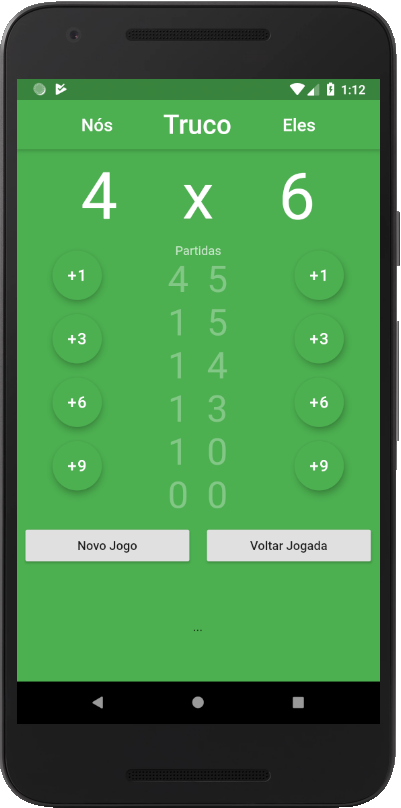
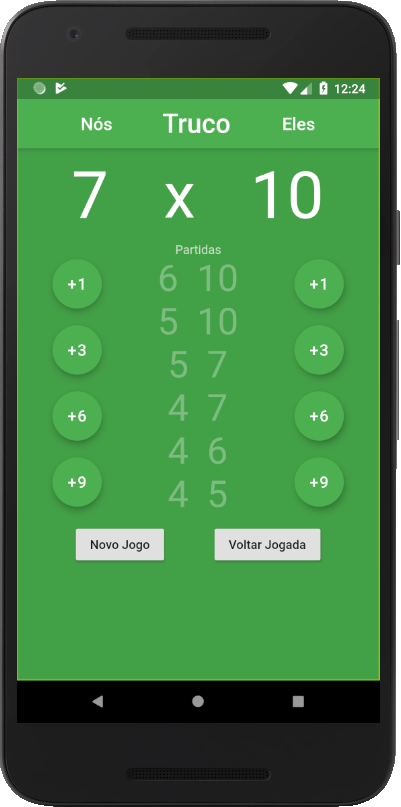
Refactor

diff --git a/lib/screens/game_screen.dart b/lib/screens/game_screen.dart
@@ -26,10 +26,13 @@ class _GameScrenState extends State<GameScreen>{
       child: Scaffold(
         appBar: AppBar(
           title: Row(
+            mainAxisAlignment: MainAxisAlignment.spaceEvenly,
             children: <Widget>[
-              Expanded(child: Center(child: Text('Nós'))),
-              Center(child: Text('Truco', style: TextStyle(fontSize: 30),)),
-              Expanded(child: Center(child: Text('Eles'))),
+
+              Text('Nós'),
+              Text('Truco', style: TextStyle(fontSize: 30)),
+              Text('Eles'),
+            
             ],
           ),
         ),
@@ -45,10 +48,9 @@ class _GameScrenState extends State<GameScreen>{
                   children: <Widget>[
                     
                     _ourPoint(),
-                    
-                    Center(child: Text('x', style: TextStyle(color: Colors.white, fontSize: 72.0),),),
-                    
+                    Text('x', style: TextStyle(color: Colors.white, fontSize: 72.0),),
                     _theyPoint(),
+                  
                   ],
                 ),
               ),
@@ -59,9 +61,7 @@ class _GameScrenState extends State<GameScreen>{
                     children: <Widget>[
                       
                       _ourButtons(),
-
                       _matches(bloc),
-
                       _theyButtons(),
 
                     ],
@@ -73,14 +73,17 @@ class _GameScrenState extends State<GameScreen>{
                 child: Row(
                   mainAxisAlignment: MainAxisAlignment.spaceEvenly,
                   children: <Widget>[
+
                     RaisedButton(
                       onPressed: () => bloc.dispatch(NewGame()),
                       child: Text('Novo Jogo'),
                     ),
+
                     RaisedButton(
                       onPressed: () => bloc.dispatch(BackMatch()),
                       child: Text('Voltar Jogada'),
                     ),
+                  
                   ],
                 ),
               ),
@@ -89,7 +92,7 @@ class _GameScrenState extends State<GameScreen>{
                 margin: EdgeInsets.only(top: 40),
                 padding: const EdgeInsets.only(top: 20),
                 height: 90,
-                child: Text('...'),
+                // child: Text('...'),
               ),
             
             ],
@@ -177,9 +180,13 @@ class _GameScrenState extends State<GameScreen>{
                 return ListView.builder(
                   itemCount: state.ourPoints.length,
                   itemBuilder: (BuildContext context, int index) {
+
+                    int our = state.ourPoints[state.ourPoints.length - (index + 1)];
+                    int they = state.theyPoints[state.theyPoints.length - (index + 1)];
+                    
                     return Center(
                       child: Text(
-                        '${state.ourPoints[state.ourPoints.length - (index + 1)].toString()}  ${state.theyPoints[state.theyPoints.length - (index + 1)].toString()}',
+                        '${our.toString()}  ${they.toString()}',
                         style: TextStyle(
                           color: Colors.white30,
                           fontSize: 42.0,

diff --git a/lib/screens/inicialization_screen.dart b/lib/screens/inicialization_screen.dart
@@ -29,7 +29,7 @@ class _InitializationScreenState extends State<InitializationScreen>{
     return SafeArea(
       child: Scaffold(
         body: Container(
-          color: Colors.black54,
+          color: Colors.grey[600],
           child: Center(
             child: BlocBuilder<InitializationEvent, InitializationState>(
               bloc: _bloc,
